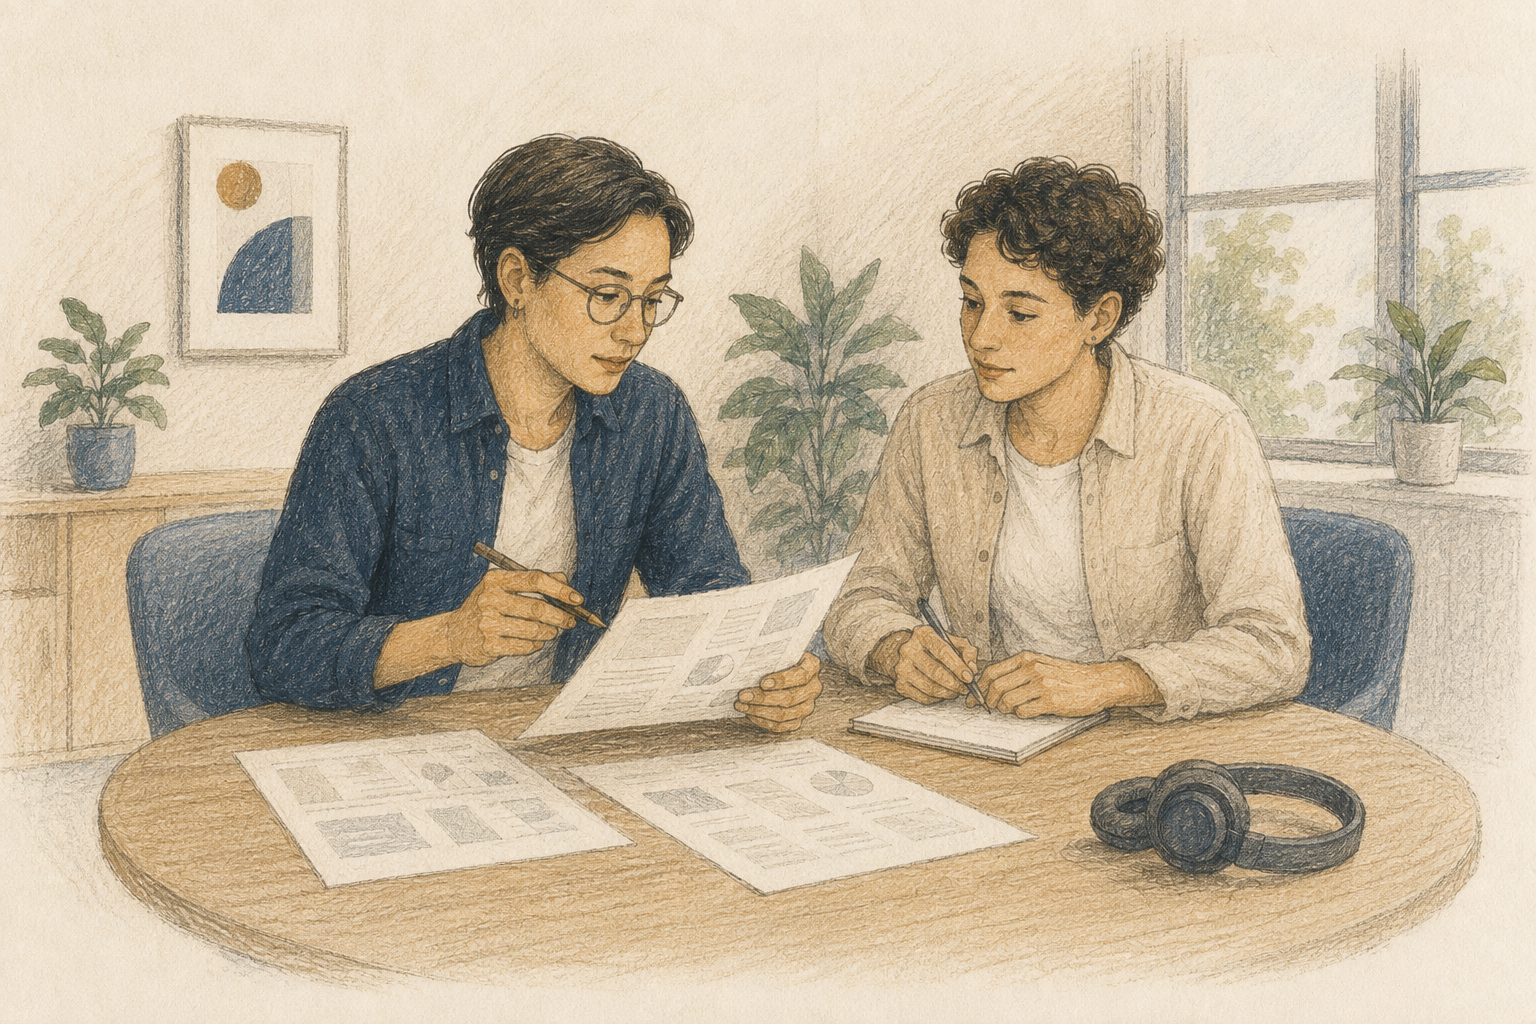
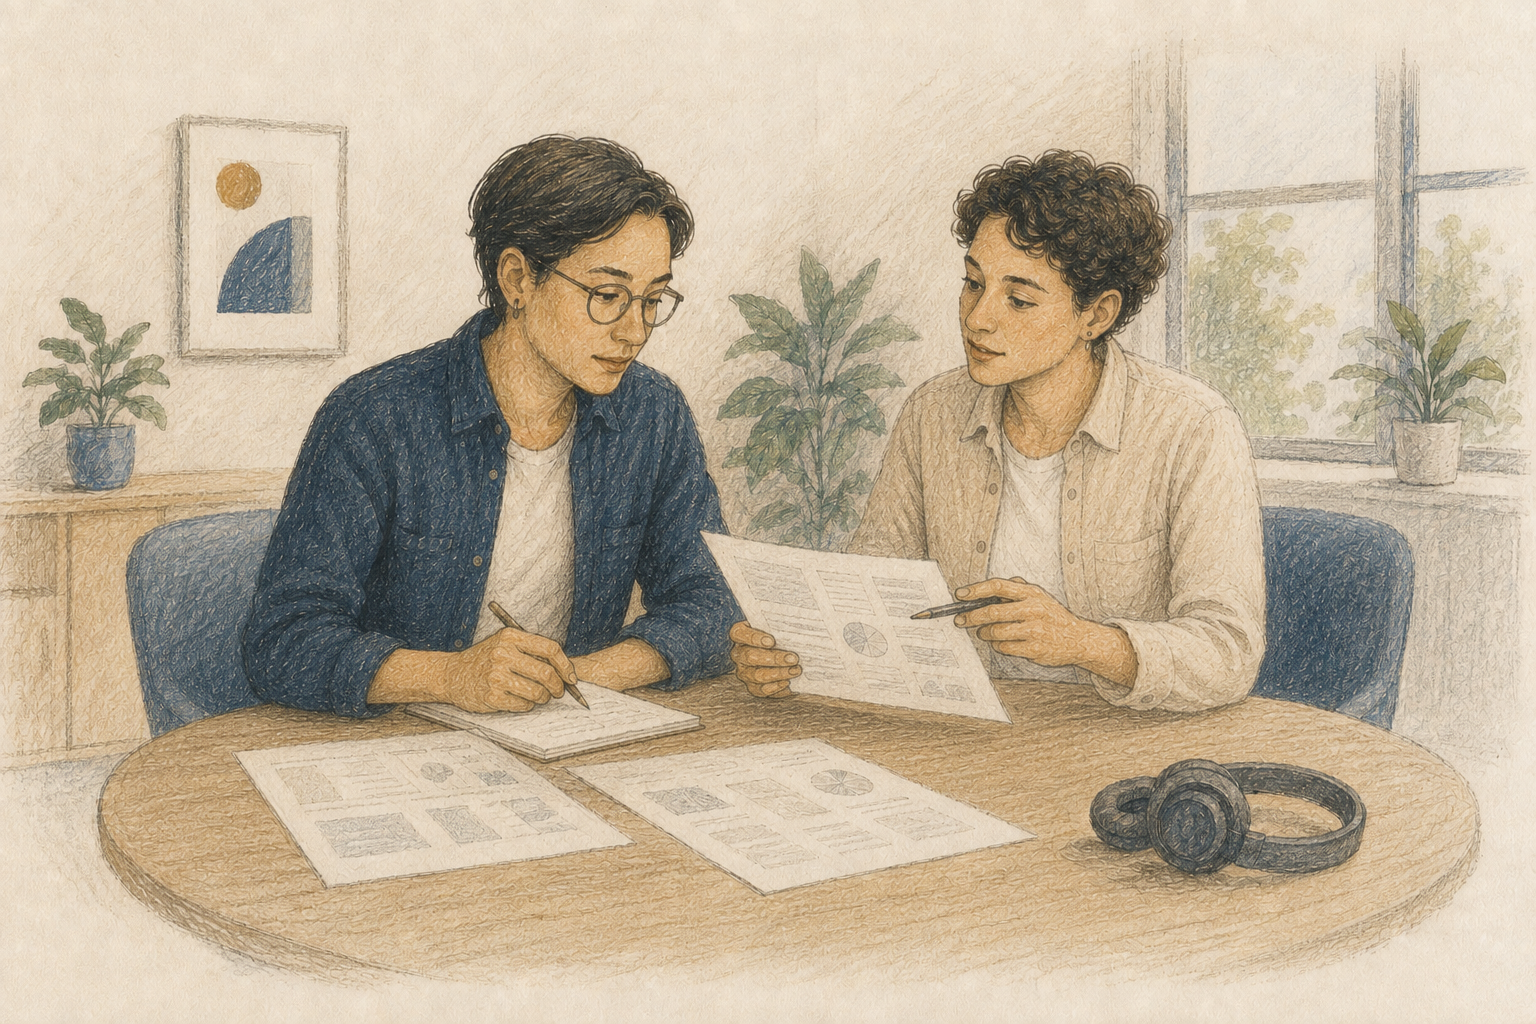
fix(illustrations): balance member role activity
Make the team member the active client-analysis explainer while keeping both colleagues equally engaged and preserving the approved visual style.

Changed region(s): [[0.0, 0.125, 0.9688, 0.9375], [0.1562, 0.2188, 0.2188, 0.3125]]

diff --git a/docs/illustration-prompt.md b/docs/illustration-prompt.md
@@ -53,7 +53,7 @@ Constraints: no words, letters, numbers, logos, readable charts, points, money, 
 ### Senior team member
 
 - Asset: `public/illustrations/role-team-member.png`
[2 lines of base64/hex data omitted]
 
 ```text
 Use case: illustration-story
@@ -68,6 +68,18 @@ Lighting/mood: warm soft daylight, approachable, thoughtful, neutral.
 Color palette: warm paper, muted navy, dusty blue, soft ochre, restrained charcoal, low saturation.
 Text: none.
 Constraints: no words, letters, numbers, logos, readable charts, points, money, performance review, bonus decision, selected or highlighted option, checkmarks, arrows, handshake, accepted deal, celebration, victory, conflict, distress, ringing phone, emergency, complaint, secrecy symbols, private facts, disclosure cues, or recommendation. No boss-at-head-of-table composition, pointing orders, standing over another person, status-coded clothing, gender/age/race stereotype, or subordinate pose. Both adults must have the same visual scale and seat height. No watermark.
+```
+
+Targeted activity-balance revision:
+
+```text
+Use case: precise-object-edit
+Asset type: 3:2 landscape role-orientation illustration for a workplace negotiation research study
+Input images: Image 1 is the edit target.
+Primary request: Change only the two colleagues’ activity roles so the light-jacket colleague is the experienced team member actively explaining the client analysis, holding or pointing to the main abstract analysis sheet. The dark-jacket colleague should listen attentively and take notes or review a secondary sheet. Make both people visibly engaged and collaborative.
+Invariants: preserve the exact 3:2 composition, office background, table, unused headset, warm paper texture, muted navy/dusty blue/ochre palette, hand-drawn pencil and dry-brush editorial style, two adults’ identities and appearance, equal body scale, equal seat height, relaxed-neutral expressions, and all surrounding objects unless a small hand/object adjustment is required for the activity swap.
+Text: none.
+Constraints: the activity, not gender, clothing, age, body size, or hierarchy, must identify the experienced member. No words, letters, numbers, logos, readable charts, points, money, performance review, selected option, checkmarks, arrows, handshake, accepted deal, celebration, conflict, distress, ringing phone, emergency, complaint, secrecy symbols, private facts, disclosure cue, recommendation, power pose, or subordinate posture. No watermark.
 ```
 
 ### Next quarter's working arrangements
